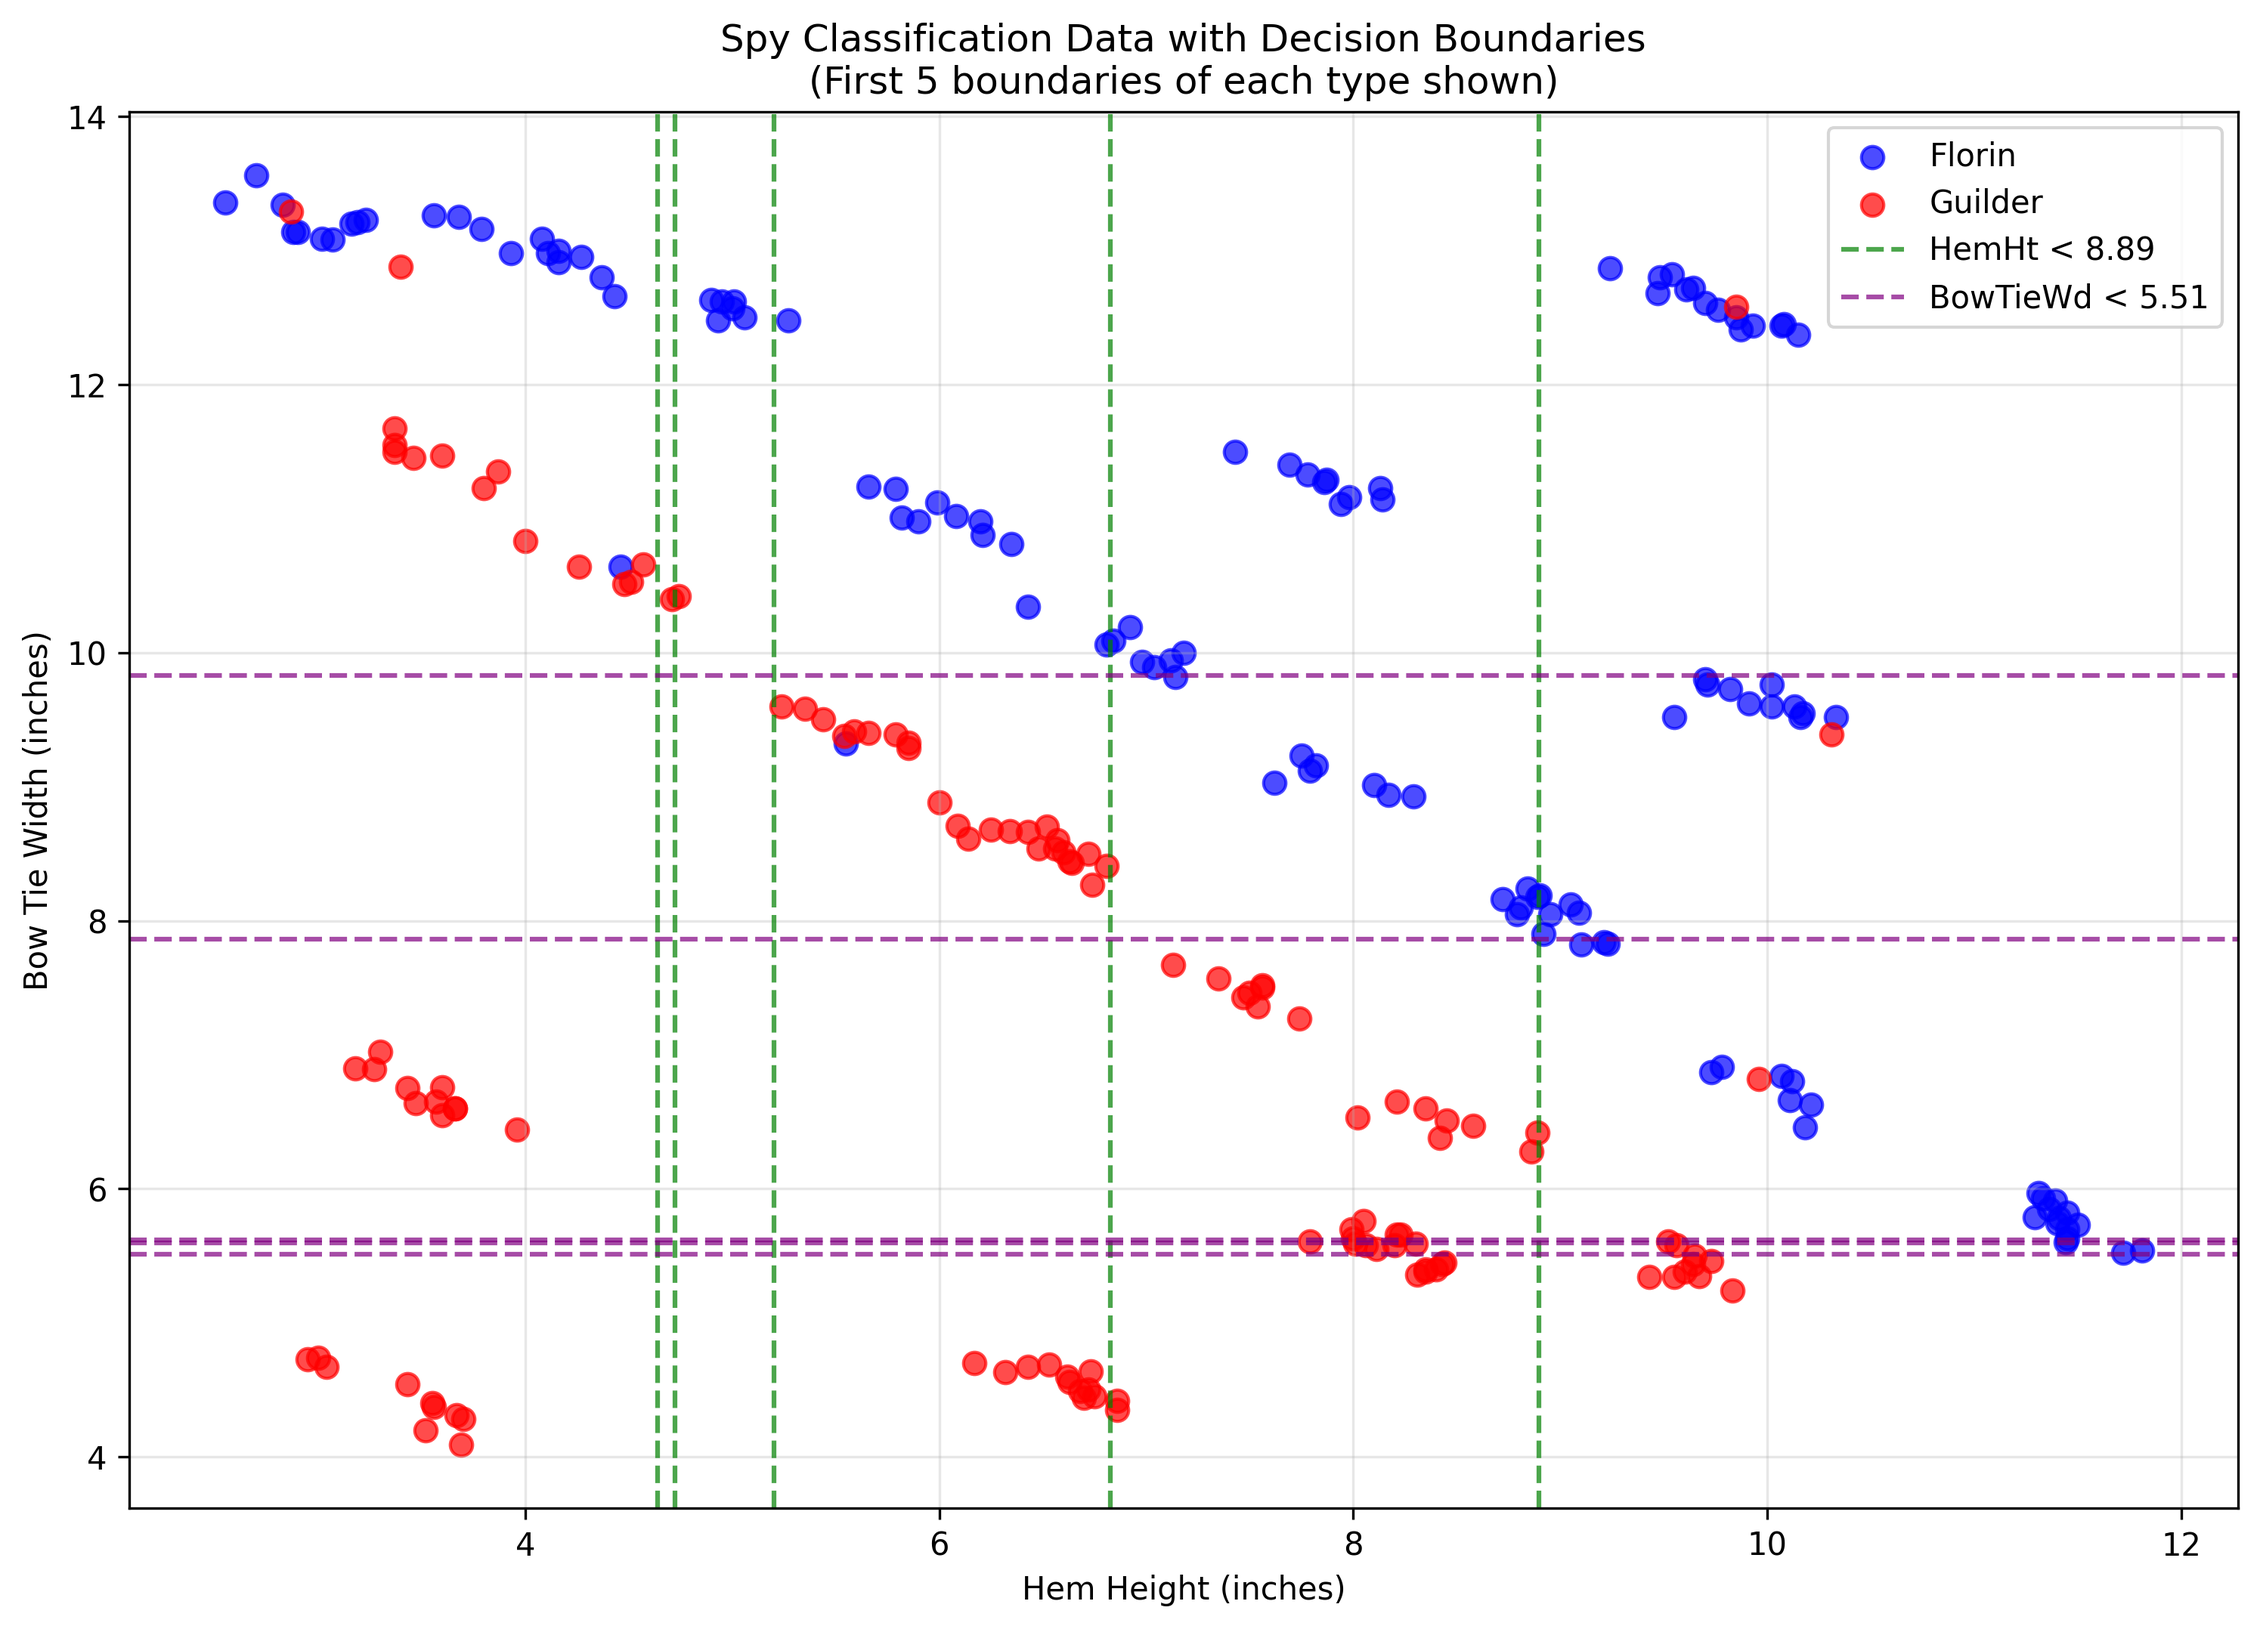
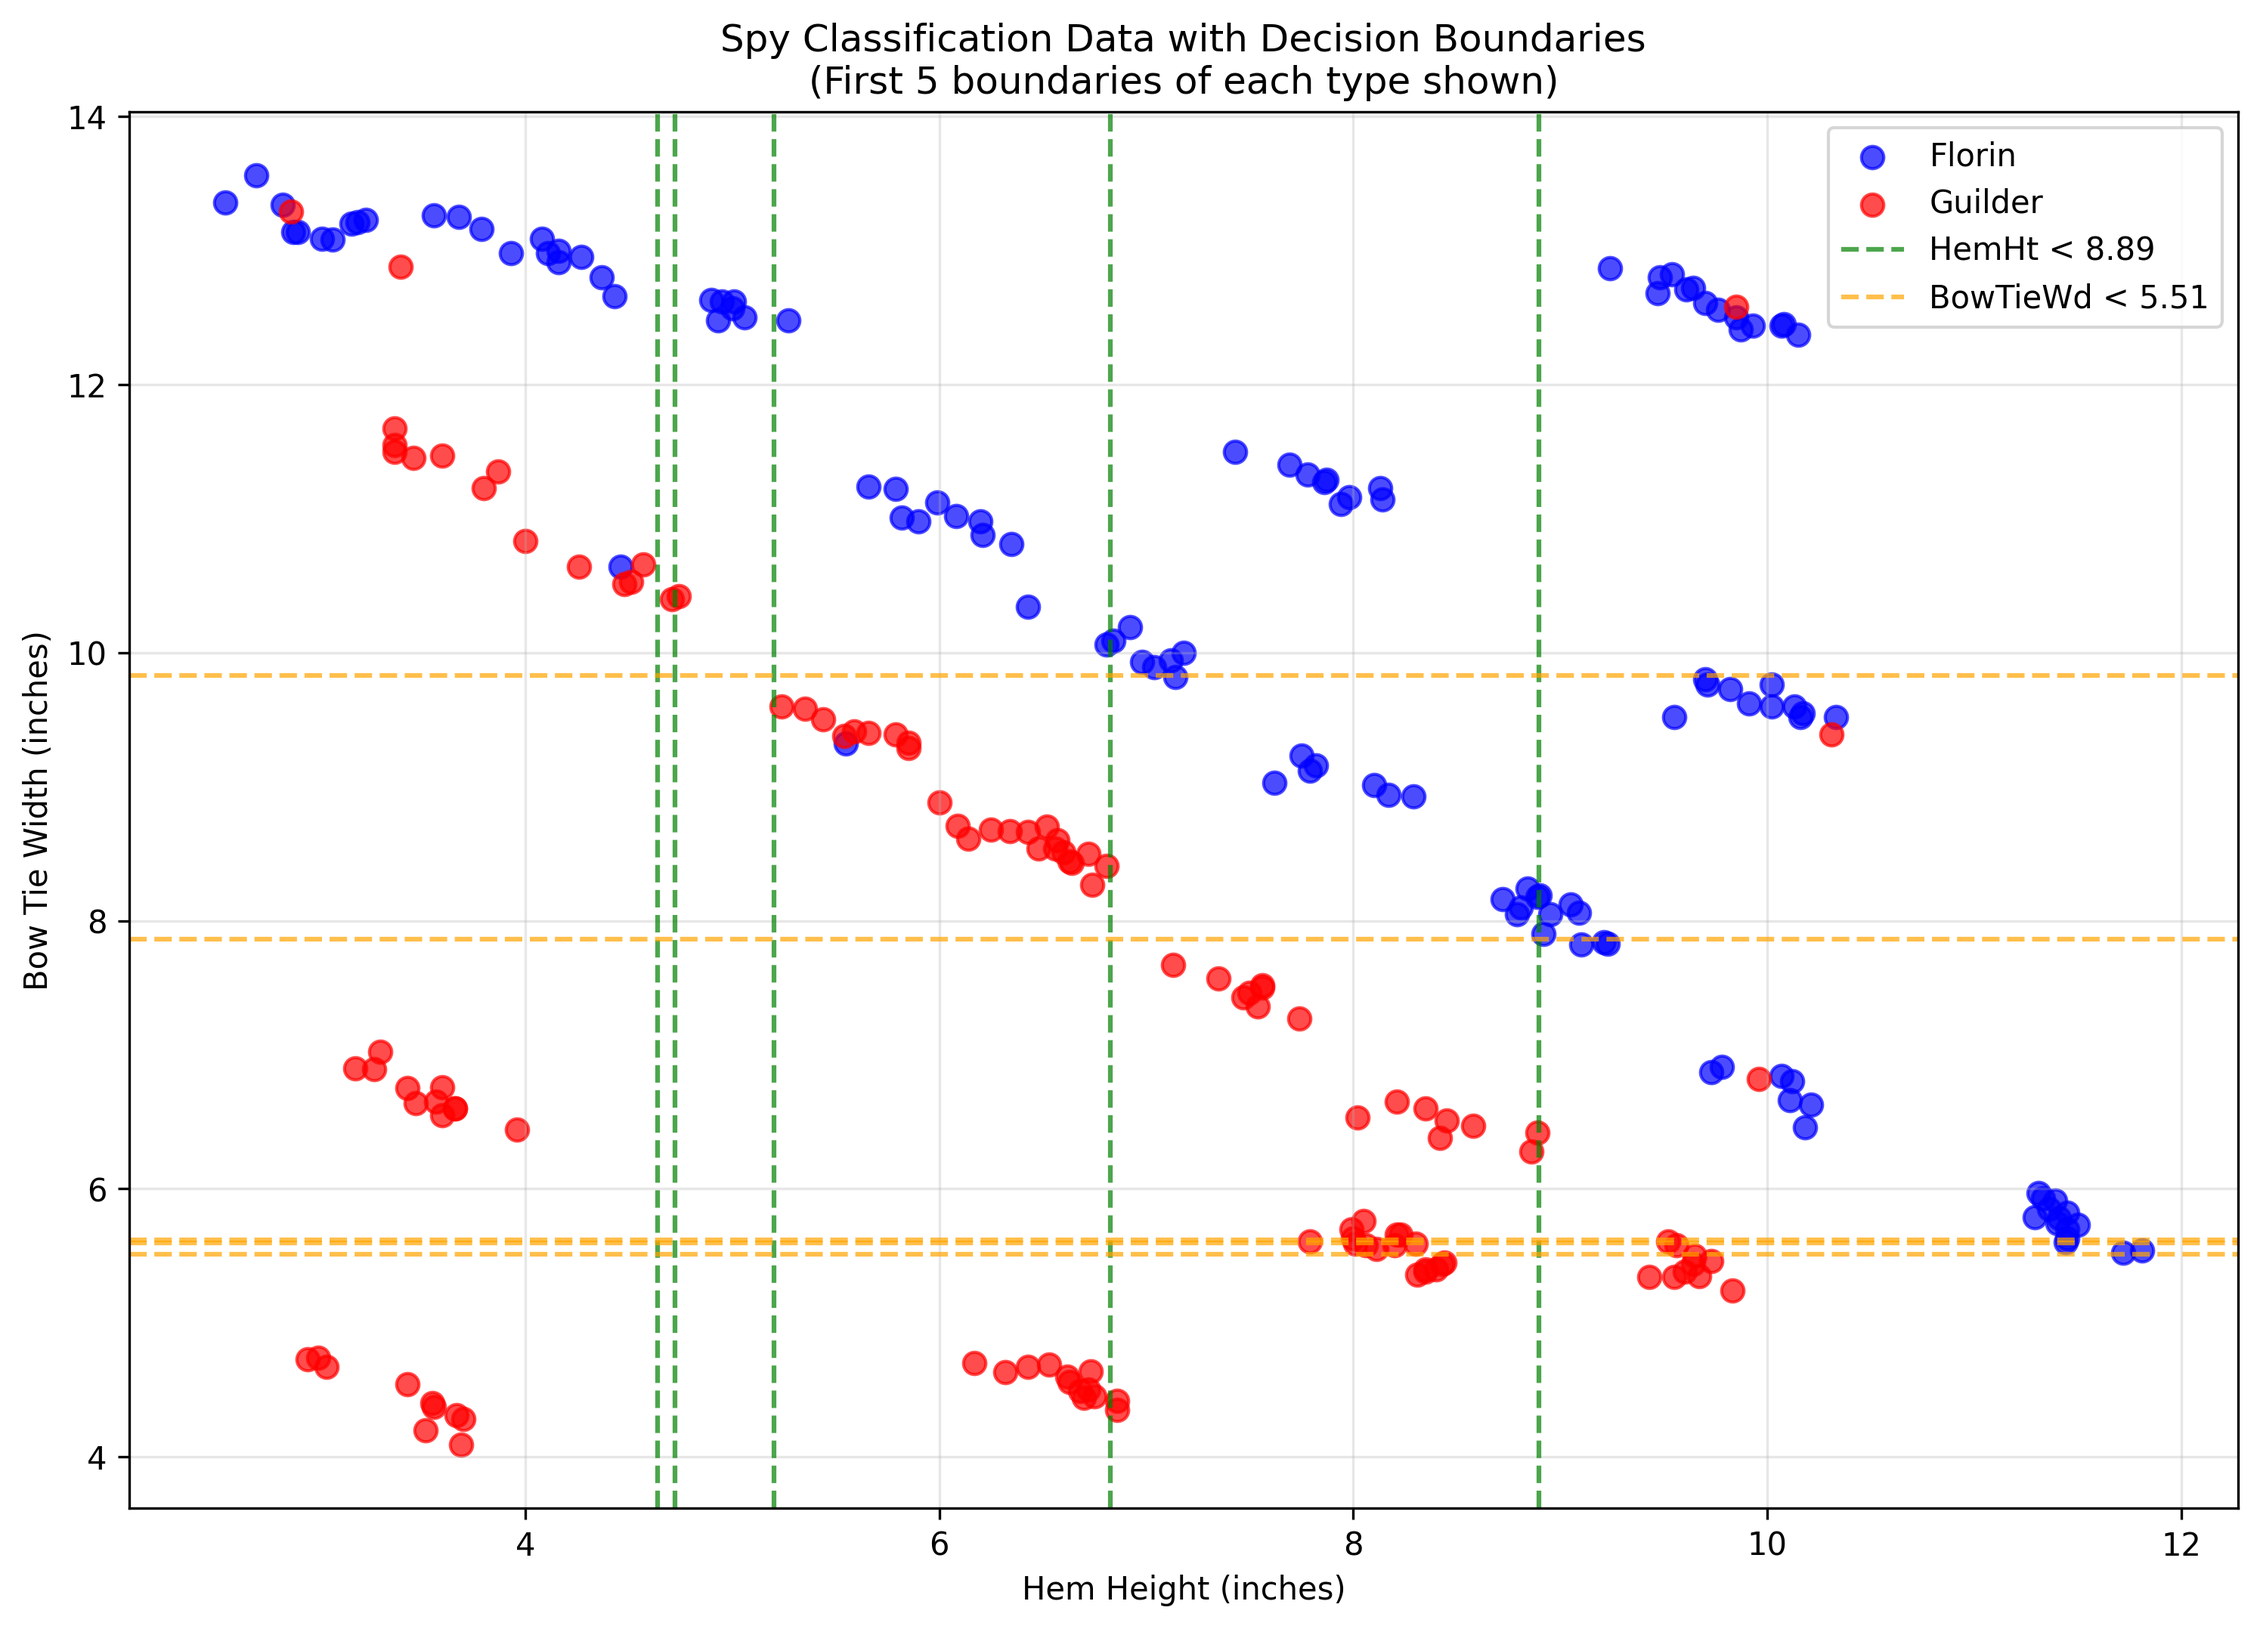
modified functionality of the plot grid

Changed region(s): [[0.0622, 0.7458, 0.9953, 0.7769]]

diff --git a/HW_05_Chang_Ethan_main.py b/HW_05_Chang_Ethan_main.py
@@ -26,7 +26,7 @@ def plot_data_and_decisions(features, labels, cascade_code):
         else:
             guilder_hem.append(features[i][0])
             guilder_bow.append(features[i][1])
-    
+
     # Plot data points
     plt.scatter(florin_hem, florin_bow, c='blue', label='Florin', alpha=0.7, s=50)
     plt.scatter(guilder_hem, guilder_bow, c='red', label='Guilder', alpha=0.7, s=50)
@@ -74,7 +74,7 @@ def plot_data_and_decisions(features, labels, cascade_code):
     # Plot first 5 horizontal boundaries (BowTieWd decisions)  
     bow_decisions = [d for d in decisions if d[0] == 'BowTieWd'][:5]
     for i, (feature, threshold) in enumerate(bow_decisions):
-        plt.axhline(y=threshold, color='purple', linestyle='--', 
+        plt.axhline(y=threshold, color='orange', linestyle='--', 
                    alpha=0.7, label=f'BowTieWd < {threshold:.2f}' if i == 0 else "")
         print(f"BowTieWd boundary at: {threshold}")
     
@@ -87,7 +87,8 @@ def plot_data_and_decisions(features, labels, cascade_code):
     
     # Save the plot
     plt.savefig('decision_boundaries.png', dpi=300, bbox_inches='tight')
-    plt.show()
+
+    plt.close()
 
     print("Plot saved as 'decision_boundaries.png'")
     
@@ -115,14 +116,14 @@ def extract_right_data(features, labels, feature_index, threshold):
             right_labels.append(labels[i])
     return right_features, right_labels
 
-def build_cascade_tree(features, labels, depth=0, max_depth=20):
+def build_cascade_tree(features, labels, depth=0):
 
     total_samples = len(features)
 
     total, florin_count, guilder_count, majority_class, purity = node_analysis(labels)
 
     #Base Case: Stop when purity >= 0.95
-    if purity >= 0.95 or depth >= max_depth:
+    if purity >= 0.95:
 
         indent = "    " * depth
         return f'{indent}return "{majority_class}"  # Pure node: {purity:.1%} {majority_class}'
